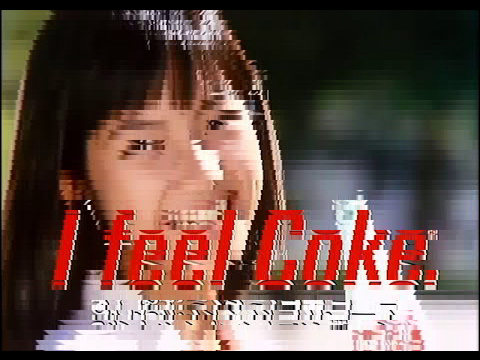
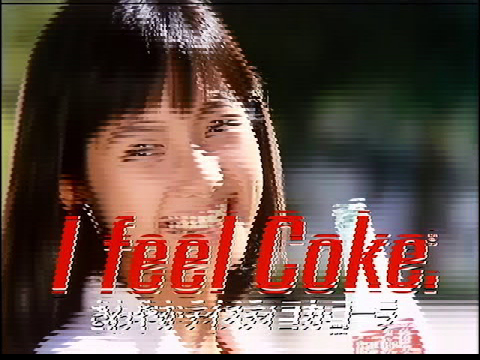
fix shuffle algo

diff --git a/src/lib/transform/shuffle-transform.ts b/src/lib/transform/shuffle-transform.ts
@@ -31,20 +31,17 @@ export async function shuffleTransform(imagePath: string, opts: ShuffleTransform
   scanPixelMatrix(pixelMatrix, nextWidth, nextHeight, (x, y, currPixel) => {
     if(
       (y > shiftYBy)
-      && ((y % shiftYBy) === 0)
+      && ((y % (shiftYBy * 2)) === 0)
     ) {
       for(let i = 0; i < shiftYBy; ++i) {
         let swapY: number, currY: number;
         let swapPixelVal: number, currPixelVal: number;
-        swapY = y - (shiftYBy - i);
-        currY = y - i;
+        swapY = y - ((shiftYBy * 2) - i);
+        currY = y - (shiftYBy - i);
         swapPixelVal = rgbaToInt(pixelMatrix[x][swapY]);
-        currPixelVal = rgbaToInt(pixelMatrix[x][y]);
+        currPixelVal = rgbaToInt(pixelMatrix[x][currY]);
         nextImage.setPixelColor(swapPixelVal, x, currY);
         nextImage.setPixelColor(currPixelVal, x, swapY);
-
-        // nextImage.setPixelColor(rgbaToInt(pixelMatrix[x][y - i]), x, y - (shiftYBy - i));
-        // nextImage.setPixelColor(rgbaToInt(pixelMatrix[x][y + i]), x, y + (shiftYBy - i));
       }
     }
   });

diff --git a/src/lib/ezd-image-main.ts b/src/lib/ezd-image-main.ts
@@ -46,7 +46,7 @@ export async function ezdImageMain(argv: string[]) {
   transformPromises.push(colorTransformPromise);
 
   shuffleTransformPromise = shuffleTransform(cliArgs.filePath, {
-    yShufflePx: 10,
+    yShufflePx: 3,
   });
   transformPromises.push(shuffleTransformPromise);
 
